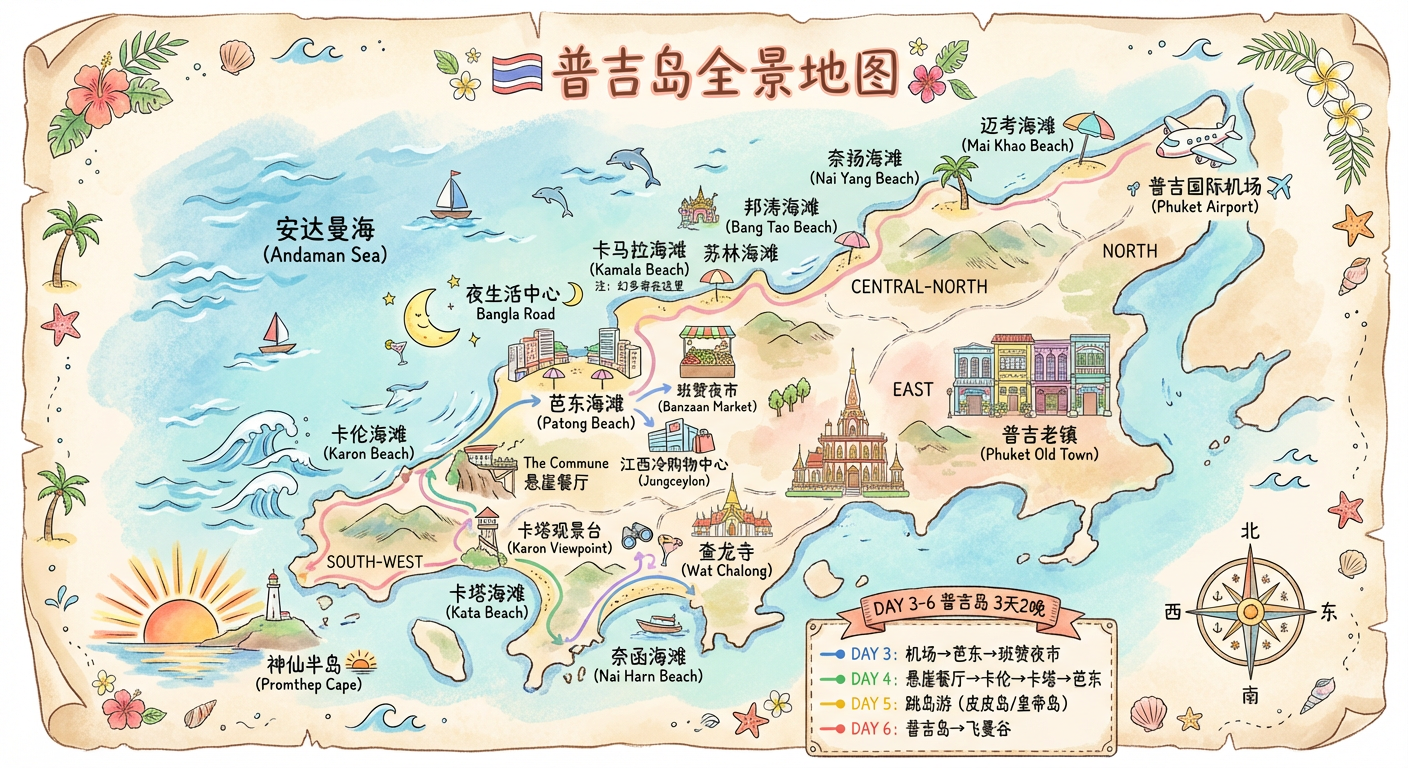
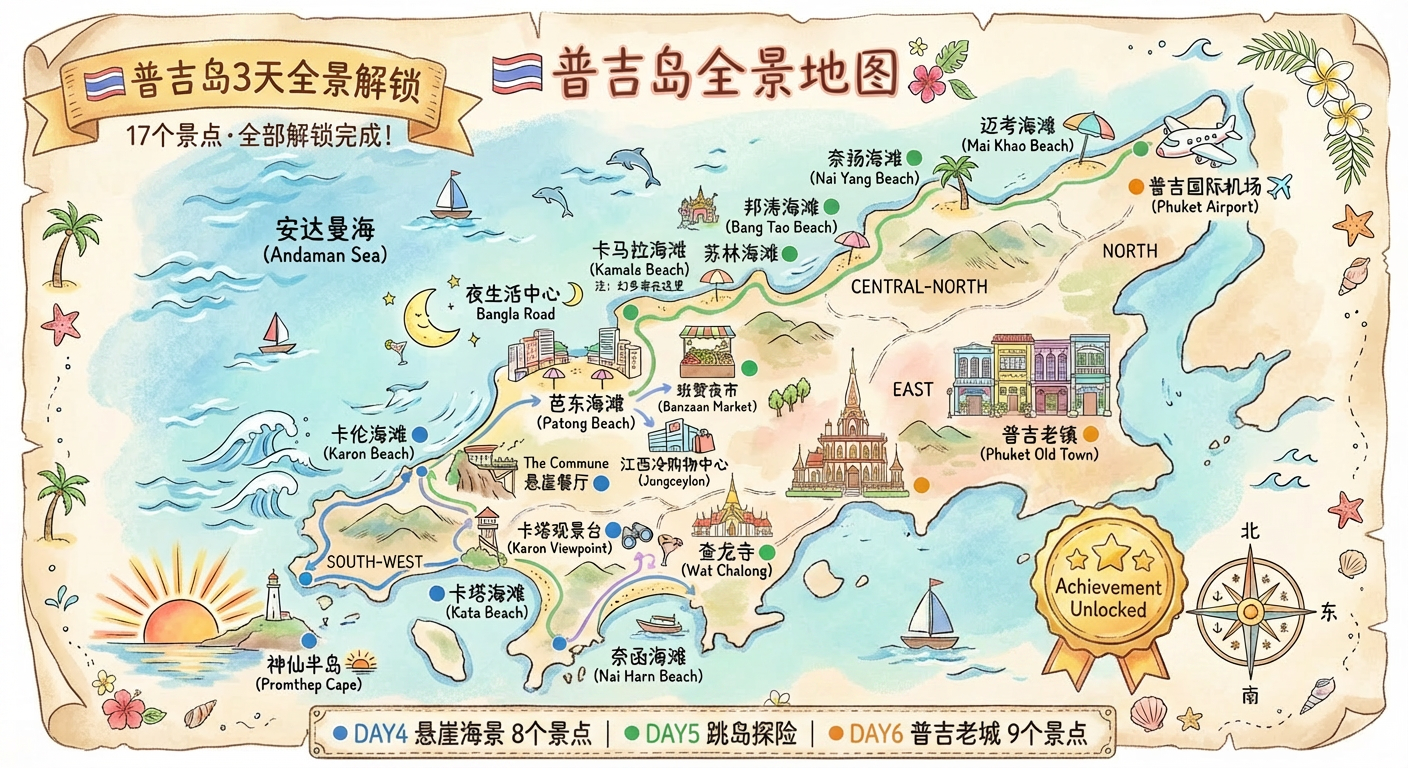
fix: Day9图片URL修复+普吉全景图加解锁标注
- 替换Day9机场免税店和抵达上海两个失效的unsplash图片URL
- 普吉全景图加入每天解锁地点颜色标注、图例和总解锁数(17个景点)
- 加入Achievement Unlocked成就徽章

diff --git a/src/data/itinerary.ts b/src/data/itinerary.ts
@@ -1122,7 +1122,7 @@ export const itineraryData: DayItinerary[] = [
         desc: "素万那普机场免税店规模超大！King Power免税店可以买到各种泰国特产：皇家蜂蜜、Naraya曼谷包、泰国手工皂、榴莲干、冬阴功方便面套装。还有各大国际品牌",
         time: "00:30-01:00",
         icon: "fa-cart-shopping",
-        img: "https://images.unsplash.com/photo-1436491865332-7a61a109db05?w=600&q=80",
+        img: "https://images.unsplash.com/photo-1556742049-0cfed4f6a45d?w=600&q=80",
         tips: "推荐买：Naraya曼谷包（送人神器100-300泰铢）、皇家蜂蜜Royal Project、Pocky百力滋泰国限定口味。免税店24小时营业，但凌晨部分柜台可能关闭",
       },
       {
@@ -1138,7 +1138,7 @@ export const itineraryData: DayItinerary[] = [
         desc: "清晨抵达上海浦东机场，带着满满的回忆、晒黑的皮肤、塞满伴手礼的行李箱，和闺蜜们依依不舍地告别。9天8晚，3个国家，无数个难忘瞬间——下次旅行见！",
         time: "06:45",
         icon: "fa-heart",
-        img: "https://images.unsplash.com/photo-1474181628621-fbd52d3e6166?w=600&q=80",
+        img: "https://images.unsplash.com/photo-1524850011238-e3d235c7d4c9?w=600&q=80",
       },
     ],
     meals: [
